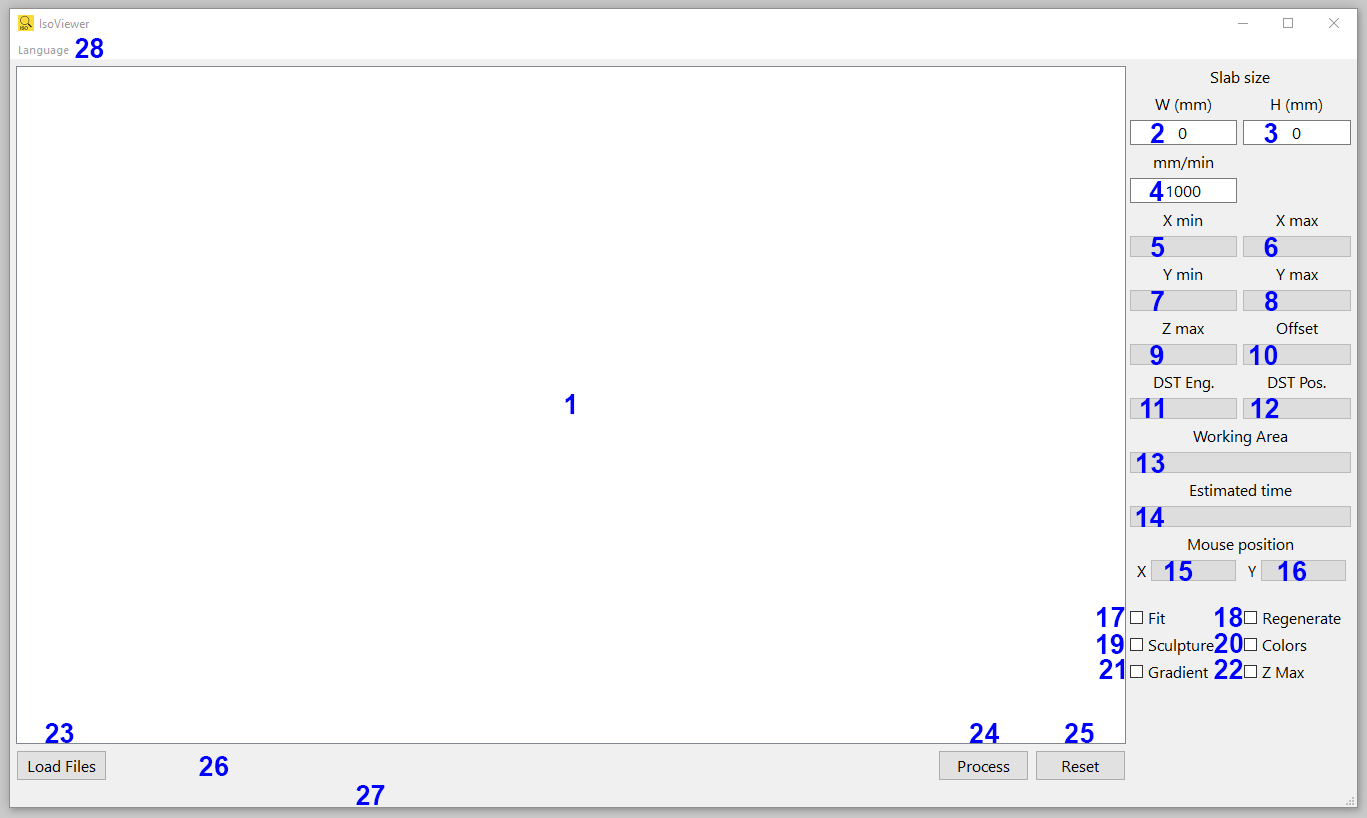
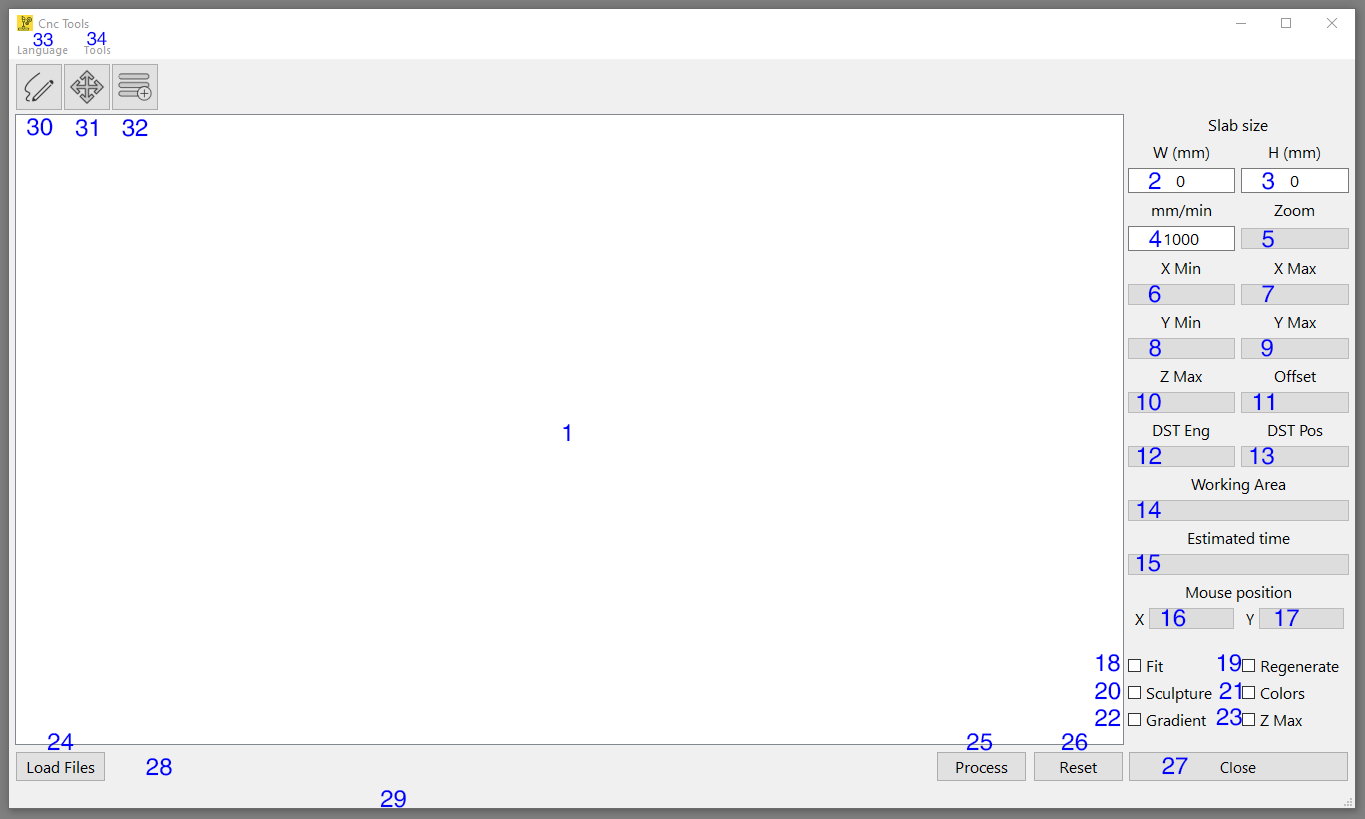
Readme.md updated

diff --git a/README.md b/README.md
@@ -1,0 +1,120 @@
+# Cnc Tools for Helios Automazioni srl CNC Machines
+
+This software is a set of utilities to be used with the proprietary GCode files with PGR extension.
+
+> This is **NOT** an official software developed by [Helios Automazioni srl](https://www.heliosautomazioni.com/it/home-it.html).
+>
+> I am computer engineer employed as a technical designer and a CNC programmer at [Centro Marmi D'Arcangeli srl](https://www.cmdarcangeli.com).
+
+## Features
+**PGR path visualization**
+- Import multiple files at once
+- Possibility to specify the working area size
+- Option to decide whether or not the path has to fit the visible area
+- Option to automatically regenarate the path when the main window is resized
+- Zoom using the mouse wheel
+- Option to show the path in grayscale or colors
+- Option to highlight the milling deepest points
+- Gradient effect applied to the segments to show the difference in depth of the milling
+- Calculation of the distance traveled both for millings and repositionings
+- Estimate of the working time given the speed of the tool (not yet reliable)
+
+**PGR queuing**
+- Import multiple files at once
+- Drag&Drop to reorder the loaded files
+
+**PGR translation**
+- Translation along X and Y axes
+
+About the working time, the reason why it is not currently reliable, is that the machine doesn't really keep the speed constant while working and the vertical movement are not performed at the same speed as the horizontal ones, it could also vary due to the hardness of the material, the complexity of the job and other reasons.
+Where the job is at a constant depth the time results to be almost correct. 
+
+## Tech
+The whole software is written in `C++`, using `Qt6` to build the user interface.
+
+## How to use
+**PGR path visualization and main window**  
+![Graphic User Interface](/ui.png)  
+The basic usage only requires to click on the `Load files` button (24) and to select one or more PGR files, then to click on the `Process` button (25).  
+However you have the possibility to set several options to have different behaviours.  
+You can set the actual width and height (2 and 3) of the material to work and the path will respect its real position inside the material bounds, which will be displayed.  
+The provided speed of the tool (4) will have an impact only on the estimated time, which as you can read above is not accurate due to several reasons not depending on the software but on the machine's behaviour.  
+By selecting the `Fit` checkbox (18) the path will be scaled to fit the drawing area, this will have effect only for drawings which are smaller than the drawing area, those bigger, will be scaled down in any case, or part of them would not be visible.  
+`Regenerate` (19), when checked, will cause the path to be regenerated if the main window is resized to adapt to the new drawing area size.  
+If the file selected contains the instructions to engrave a sculpture, the `Sculpture` checkbox (20) **must** be checked because that kind of file is slightly different from the regular ones and the software needs to be informed to correctly read the file.  
+Operating on the `Colors` checkbox (21) it is possible to decide to have the path displayed using a grayscale (unchecked) or colors (checked). Depending on the `Gradient` checkbox (22) status, the segments will be drawn using a solid line (unchecked) or a gradient effect (checked).  
+By selecting the `Z Max` checkbox (23) it is possible to highlight the points corresponding to the maximum depth.
+The software only shows segments with positive coordinates, for this reason, when a path has parts with negative coordinates, it will be translated to have all of its parts in a positive area (first quadrant of the Cartesian plane). When such a condition occurs, inside the `Offset` field (11) will be stated along which axis the path has been translated (X, Y, or X and Y).
+  
+**1 -** Drawing area, here is where the path will be displayed  
+**2 and 3 -** Width and height of the material to work on in millimeters  
+**4 -** Movement speed of the tool in millimeters per minute  
+**5 -** Current zoom level  
+**6 to 10 -** Minimum and maximum positions where the machine will engrave  
+**11 -** Here will be stated whether the path was moved due to negative coordinates contained into the PGR file  
+**12 -** Distance traveled while engraving in millimeters  
+**13 -** Distance traveled while repositioning the tool in millimeters  
+**14 -** Area occupied by the engraving  
+**15 -** Estimated value of the required time to complete the job hh:mm:ss  
+**16 and 17 -** X and Y position of the mouse pointer on the drawing area in millimeters  
+**18 -** When checked, the path will be scaled to fit the drawing area  
+**19 -** When checked, the path will be automatically regenerated upon main window resizing  
+**20 -** This must be checked when a file containing a sculpture is selected  
+**21 -** When checked, the segments of the path are colored, otherwise they will be grayscaled  
+**22 -** When checked, the segments will have a gradient effect to show the difference in depth  
+**23 -** When checked, a circle will appear to highlight the points at maximum depth   
+**24 -** Button to select the file(s) to display the path contained  
+**25 -** Starts the drawing process  
+**26 -** Resets everything: input values, drawing area and eventual error messages  
+**27 -** Button to close the program  
+**28 -** On this line will appear the name(s) of the selected file(s)  
+**29 -** Status bar, this will contain eventual error messages  
+**24 -** Button to select the file(s) to display the path contained  
+**31 -** Button to open the translation tool  
+**32 -** Button to open the queuing tool  
+**33 -** Language menu to change the interface language  
+**34 -** Tools menu, contains the links to open the various tools  
+
+**Queuing tool**  
+![Queuing tool](/queuing-tool.png)  
+Select the PGR files to join by clicking the button `(1)`, multiple files selection is possible. If it is necessary, the files can be reordered dragging and dropping them.  
+Once the files are in the wanted sequence, click the `Start` button (6).  
+The tool will ask where to save the generated file.  
+  
+**WARNING**  
+The tool will only consider the first file in the list to decide the speed. That means that if you have different speeds set for the other files, those speeds will be ignored!  
+  
+**1 -** Button to select the PGR files  
+**2 -** Button to remove the checked files  
+**3 -** Button to start the queuing  
+**4 -** List of the selected files, sortable by drag&drop  
+**5 -** Log area, will show info about the queuing  
+**6 -** Button to start the queuing  
+**7 -** Button to reset the tool  
+**8 -** Button to close the tool  
+
+**Translation tool**  
+![Queuing tool](/queuing-tool.png)  
+Select the source file, set the name and the location for the new file.  
+Set the offset in millimeters along the X axis inside the proper field (3).  
+Set the offset in millimeters along the Y axis inside the proper field (4).  
+Both positive and negative values are allowed.  
+Click the `Translate` button (6).
+  
+**1 -** Source PGR files  
+**2 -** Destination file (creates a new file if it does not exists)  
+**3 -** Millimeters to translate along the X axis (positive or negative)  
+**4 -** Millimeters to translate along the Y axis (positive or negative)  
+**5 -** Log area, will show info about the translation  
+**6 -** Button to start the translation  
+**8 -** Button to close the tool  
+
+## How to compile
+The project has been developed using Visual Studio 2022 CE.
+To compile the software, `msvc2019+`, `Qt 6.0+` are required.
+
+## Installation
+Inside the folder `dist` the latest compiled version of the software for Windows is available in a zip format.  
+There is no need to install the software.  
+Unpack the zip package, inside the folder `Isoviewer`, run the file `Isoviewer.exe`.  
+> Windows 10 is required since previous versions are no more supported by `Qt`.
